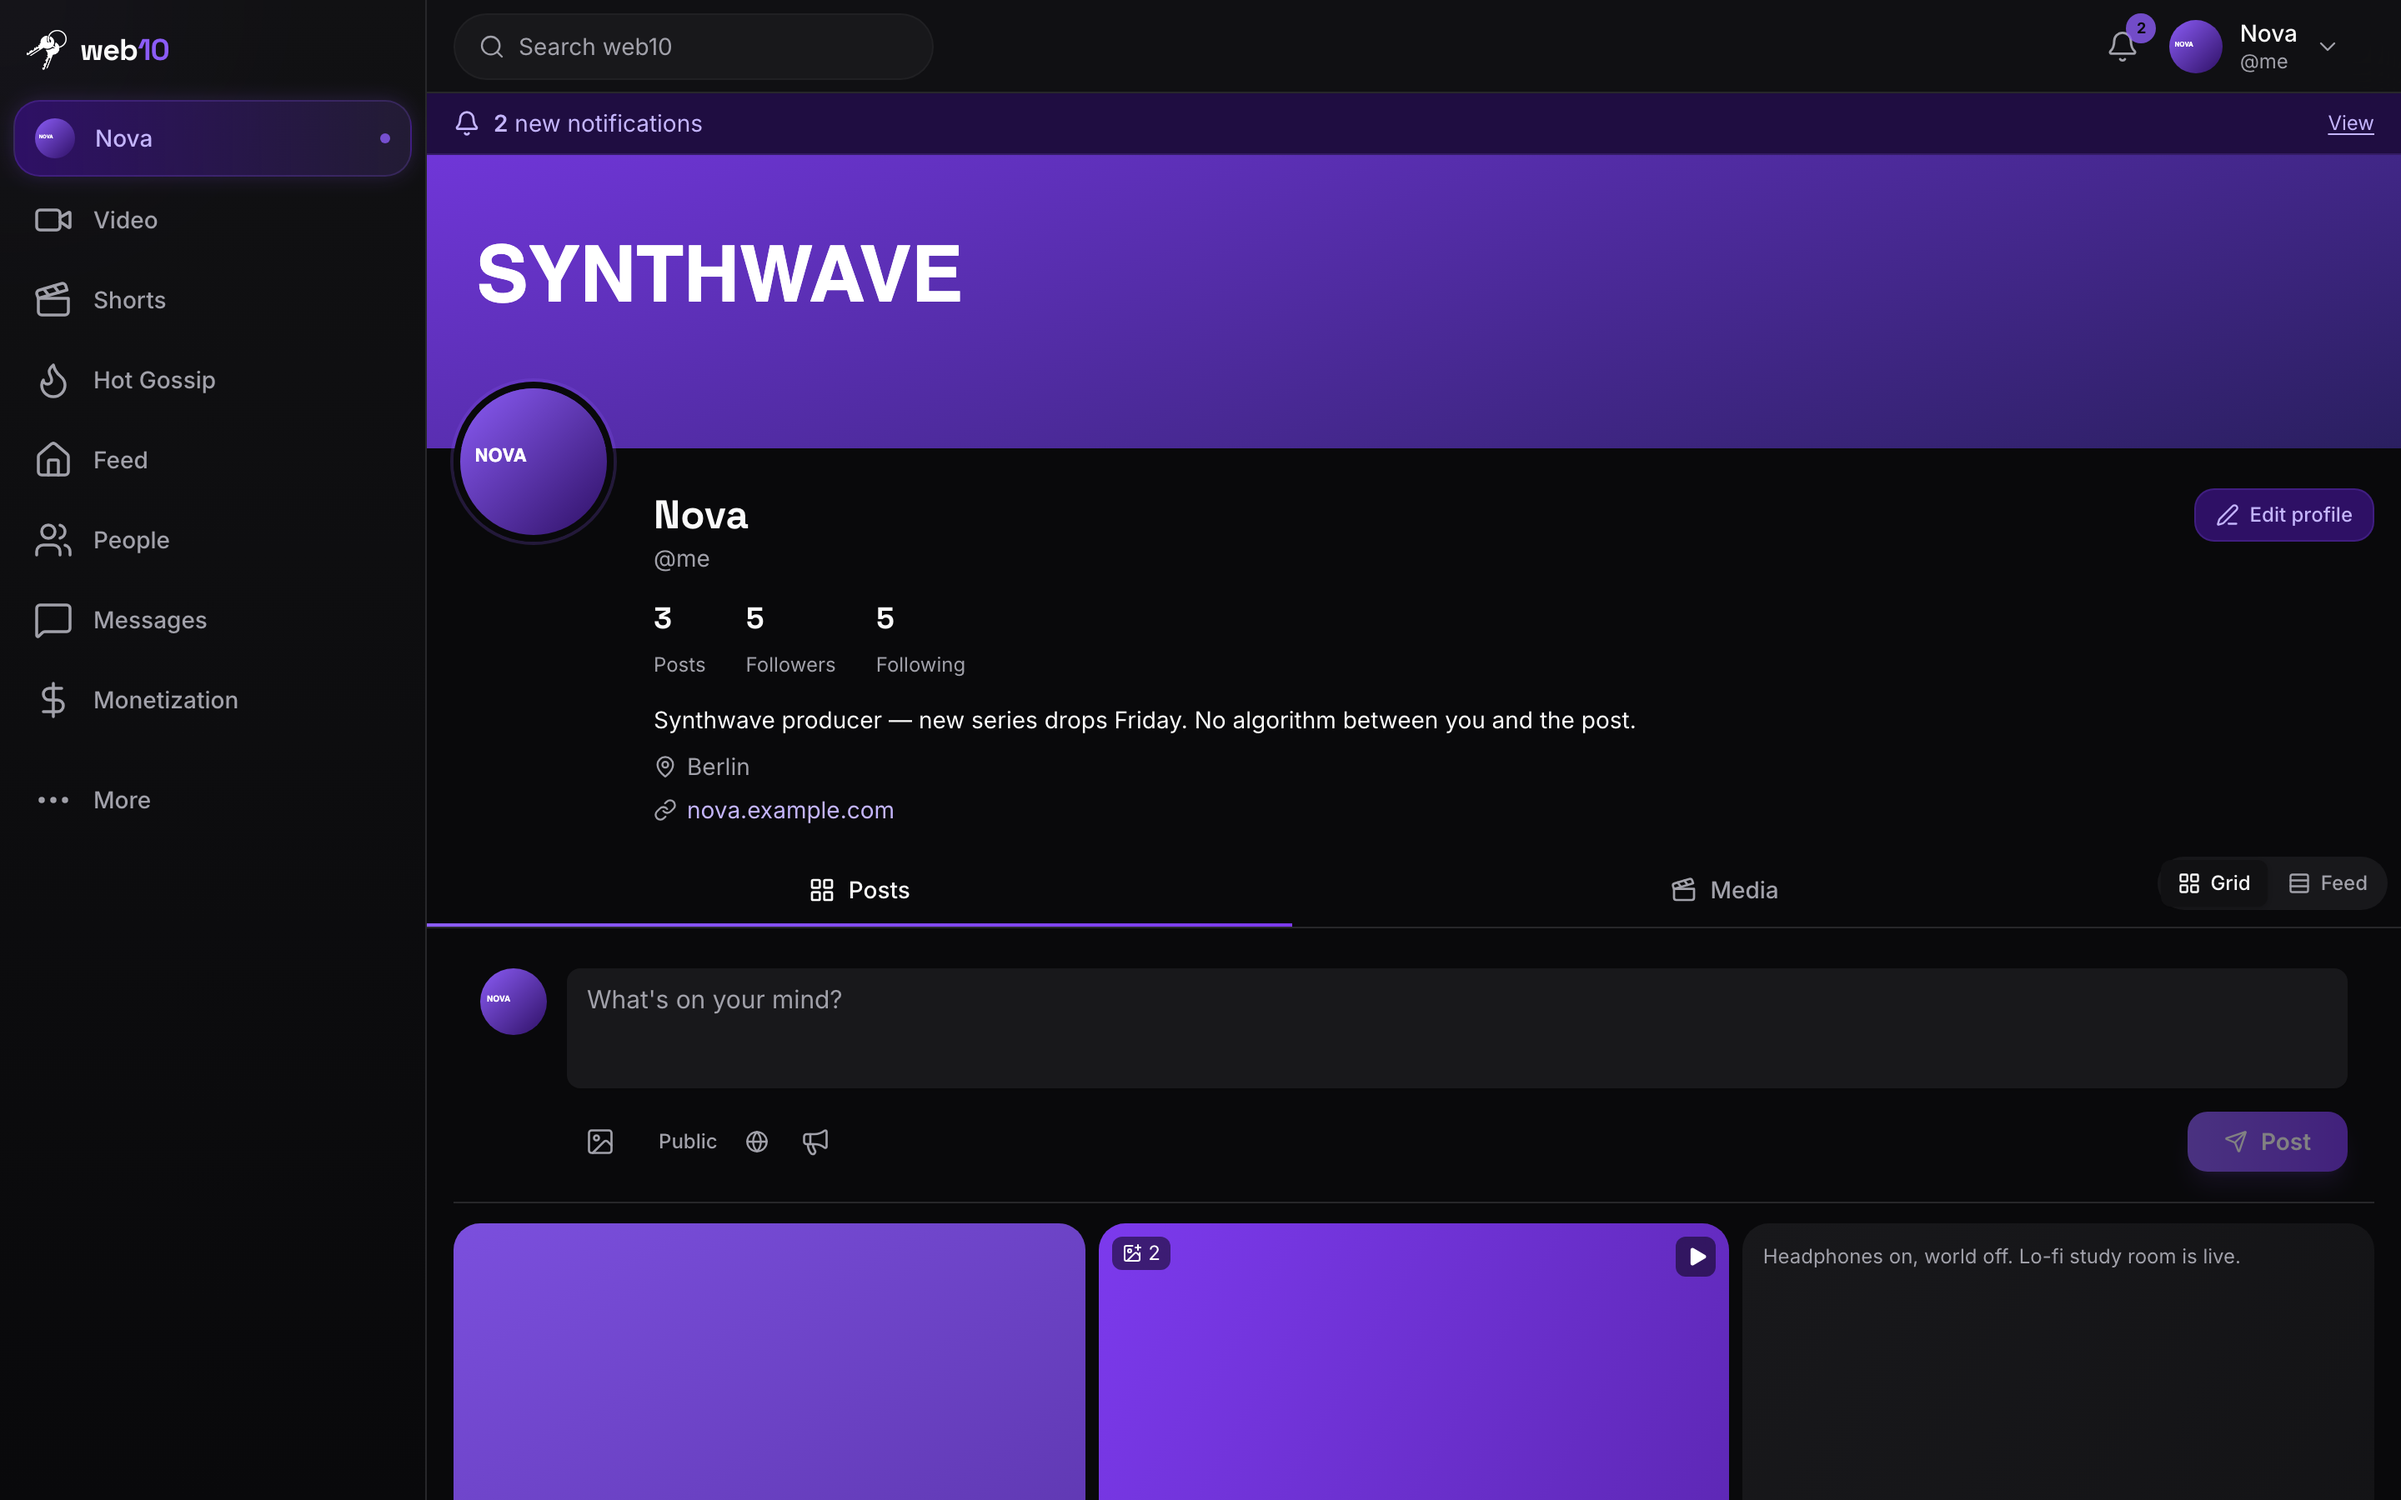
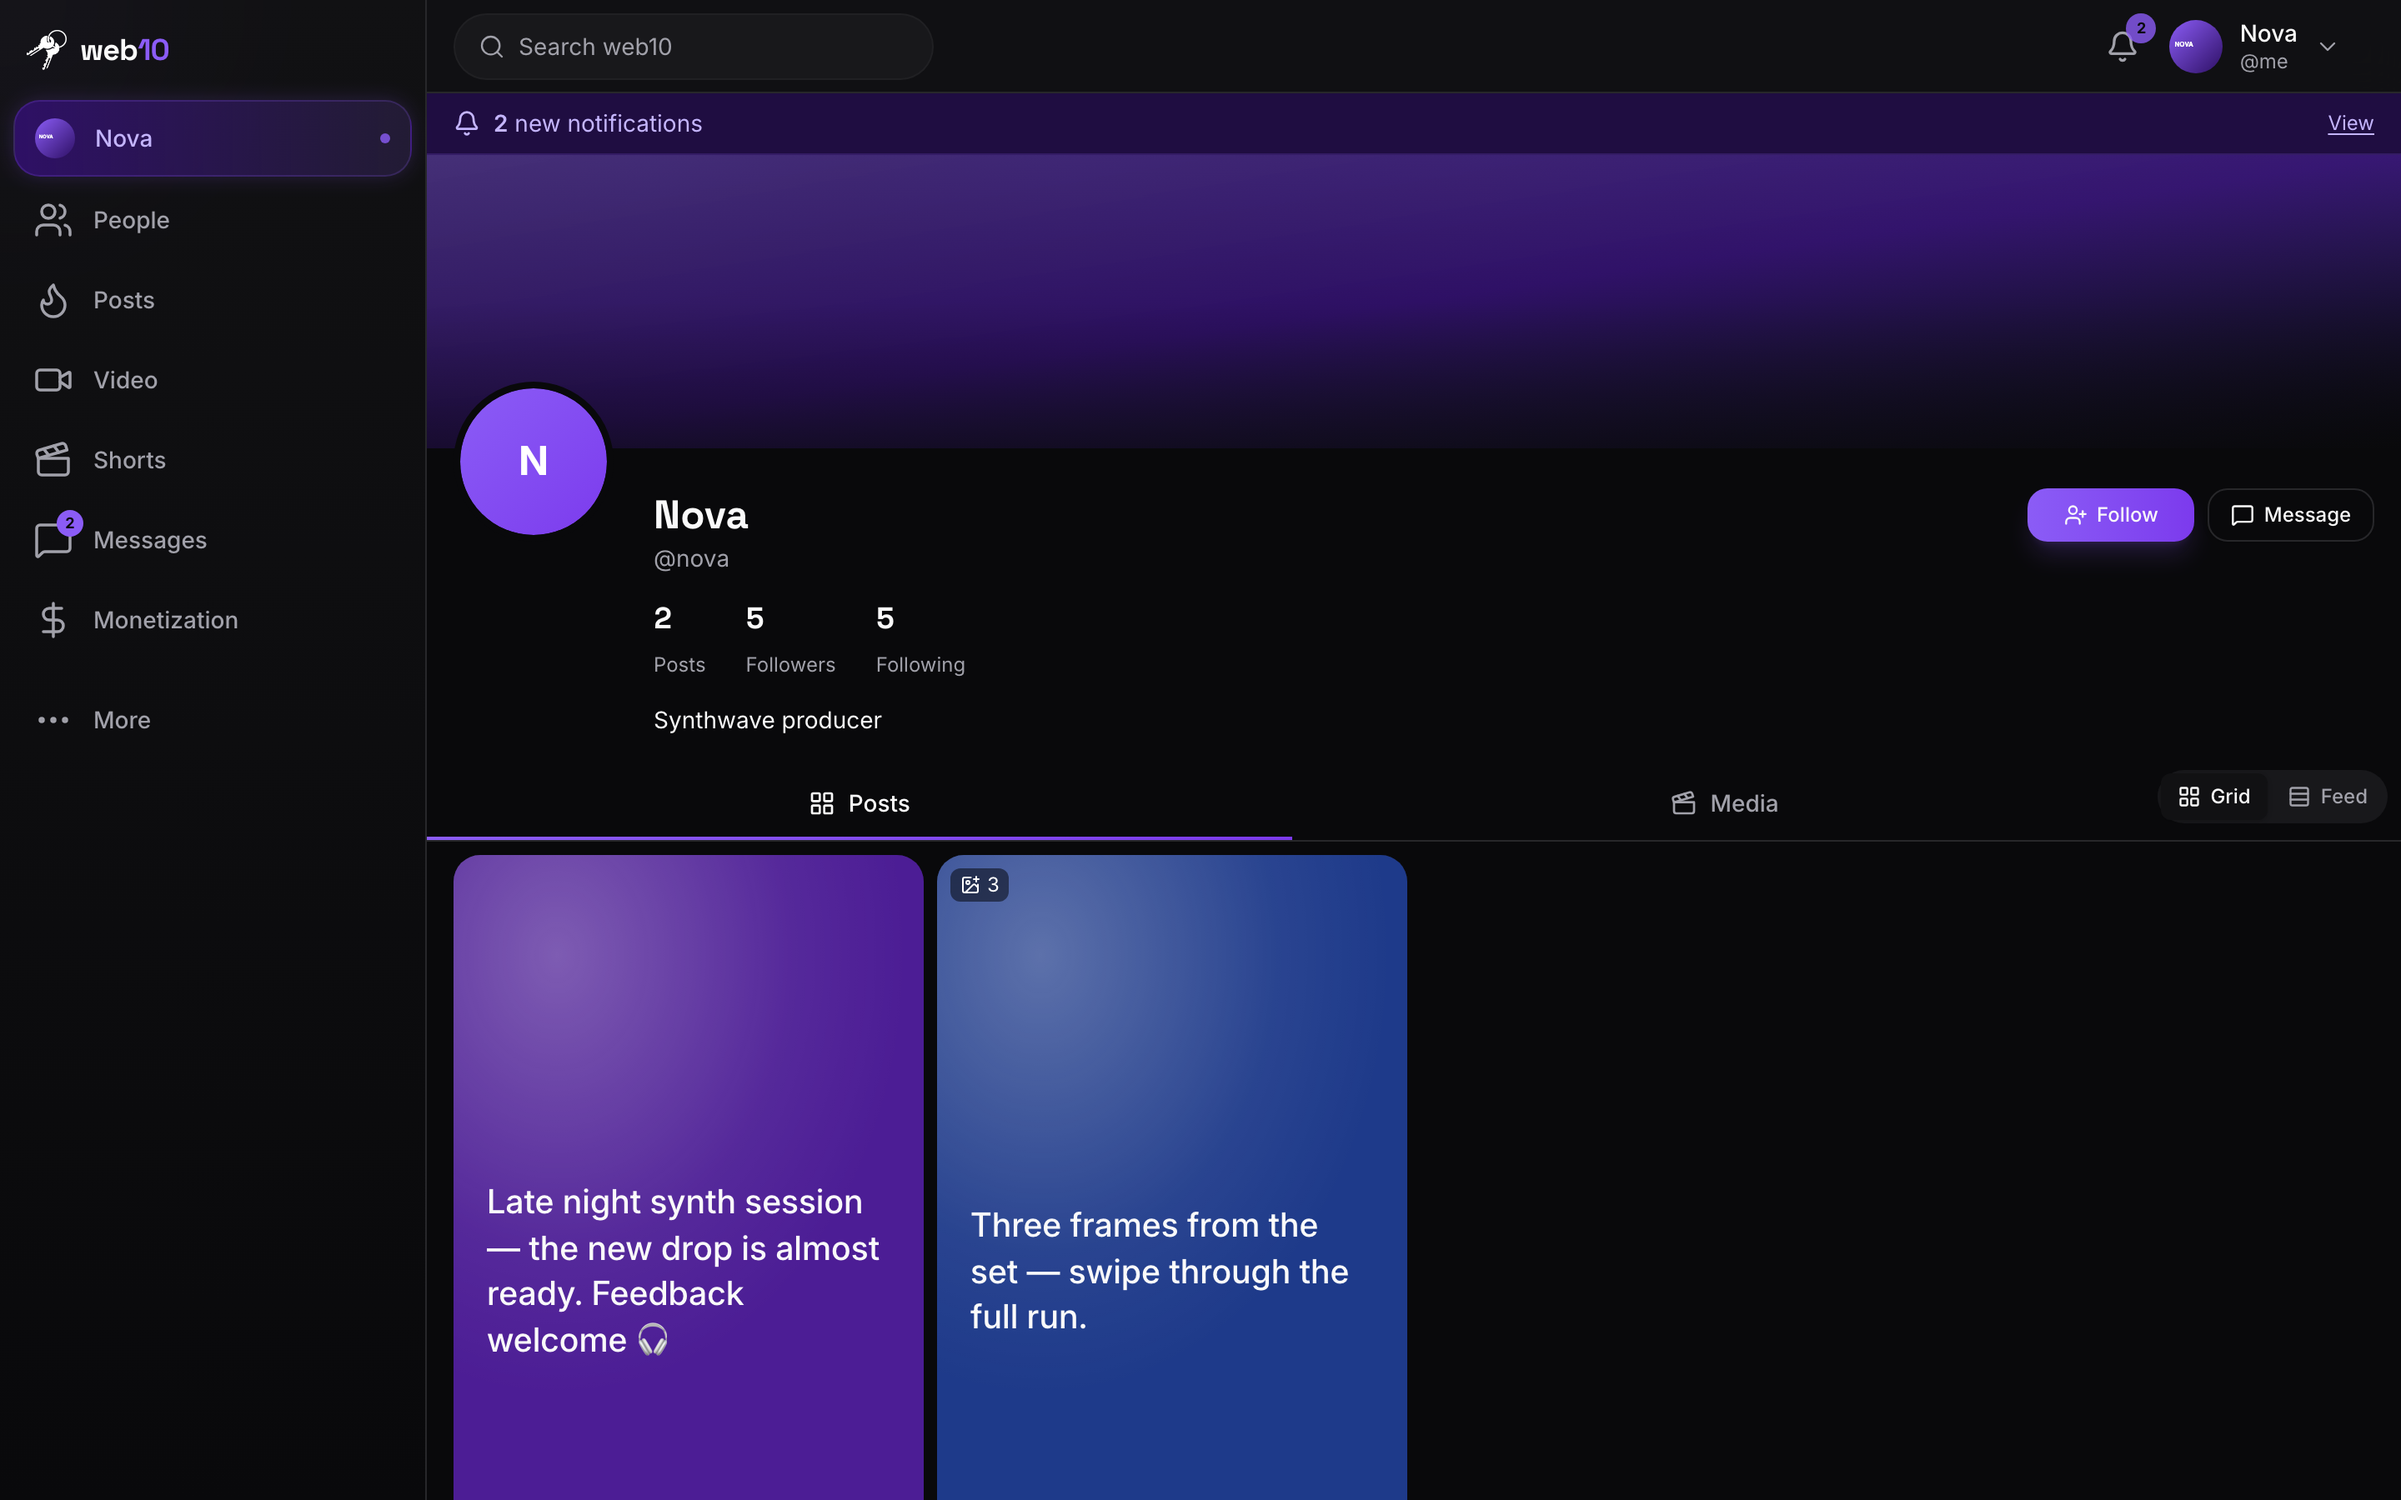
feat(web10-social): profile wall runs 3 tight columns on mobile (the Instagram shape) (3.189.0)
The profile wall's grid was grid-cols-2 on mobile, so at 375px the two 9:16 tiles were tall, sparse, and left a dead third of the screen empty. Now 3 tight columns at every width (gap-0.5 on mobile for the Instagram tight feel), square tiles on mobile (aspect-square sm:aspect-[9/16]) with the 9:16 video wall intact from sm up, responsive text-tile type, and the caption overlay only on media tiles. 1174 web10-social green, tsc clean.

diff --git a/marketing/web10-social/src/components/Bio/UserProfileScreen.tsx b/marketing/web10-social/src/components/Bio/UserProfileScreen.tsx
@@ -143,7 +143,7 @@ function WallTile({ media, testId, title, caption, postId, multiCount, onClick }
           onClick();
         }
       }}
-      className="relative aspect-[9/16] w-full bg-elevated overflow-hidden rounded-lg group cursor-pointer outline-none focus-visible:ring-2 focus-visible:ring-ring focus-visible:ring-inset"
+      className="relative aspect-square sm:aspect-[9/16] w-full bg-elevated overflow-hidden rounded-lg group cursor-pointer outline-none focus-visible:ring-2 focus-visible:ring-ring focus-visible:ring-inset"
     >
       {video ? (
         <video
@@ -168,7 +168,7 @@ function WallTile({ media, testId, title, caption, postId, multiCount, onClick }
         // display face (Space Grotesk) with the caption under it. Vertically
         // centered, not corner-dumped — it reads as a card, not an empty box.
         <div
-          className="relative w-full h-full flex flex-col justify-center p-5"
+          className="relative w-full h-full flex flex-col justify-center p-3 sm:p-5"
           style={{ backgroundColor: textTileColor(postId) }}
           data-testid={`${testId}-text`}
         >
@@ -185,23 +185,21 @@ function WallTile({ media, testId, title, caption, postId, multiCount, onClick }
           <div className="relative">
             {title ? (
               <p
-                className="font-display font-semibold text-foreground leading-tight break-words line-clamp-5"
-                style={{ fontSize: '1.5rem' }}
+                className="font-display font-semibold text-foreground leading-tight break-words line-clamp-5 text-lg sm:text-2xl"
                 data-testid={`${testId}-text-title`}
               >
                 {title}
               </p>
             ) : (
               <p
-                className="font-medium text-foreground leading-snug break-words line-clamp-7"
-                style={{ fontSize: '1.25rem' }}
+                className="font-medium text-foreground leading-snug break-words line-clamp-7 text-base sm:text-xl"
                 data-testid={`${testId}-text-title`}
               >
                 {caption}
               </p>
             )}
             {title && caption && (
-              <p className="mt-2.5 text-sm text-foreground/80 leading-snug break-words line-clamp-4" data-testid={`${testId}-text-caption`}>
+              <p className="mt-1.5 sm:mt-2.5 hidden sm:block text-sm text-foreground/80 leading-snug break-words line-clamp-4" data-testid={`${testId}-text-caption`}>
                 {caption}
               </p>
             )}
@@ -221,8 +219,9 @@ function WallTile({ media, testId, title, caption, postId, multiCount, onClick }
           {multiCount}
         </div>
       )}
-      {/* The caption (the post text, the Instagram/TikTok overlay). */}
-      {caption && (
+      {/* The caption (the post text, the Instagram/TikTok overlay) — media tiles
+          only; a text tile already renders its text as the card face. */}
+      {caption && media.url && (
         <div className="absolute inset-x-0 bottom-0 p-2 bg-gradient-to-t from-black/70 via-black/30 to-transparent pointer-events-none">
           <p className="text-xs text-white line-clamp-2 leading-snug">{caption}</p>
         </div>
@@ -1039,7 +1038,7 @@ export default function UserProfileScreen({ username, provider, onBack }: UserPr
                 onAuthorClick={(u) => navigate(`/u/${u}`)}
               />
             ) : (
-            <div className="grid grid-cols-2 gap-2 sm:grid-cols-3 lg:grid-cols-4">
+            <div className="grid grid-cols-3 gap-0.5 sm:gap-2 lg:grid-cols-4">
               {posts.map((post) => {
                 const firstMedia = post.media_refs?.[0] ? mediaMap[mediaRefId(post.media_refs[0])] : null;
                 // A post with no media renders as a caption-only tile (the
@@ -1079,7 +1078,7 @@ export default function UserProfileScreen({ username, provider, onBack }: UserPr
           )}
           </>
         ) : mediaPosts.length ? (
-          <div className="grid grid-cols-2 gap-2 sm:grid-cols-3 lg:grid-cols-4">
+          <div className="grid grid-cols-3 gap-0.5 sm:gap-2 lg:grid-cols-4">
             {mediaPosts.flatMap((post) =>
               (post.media_refs || []).map((ref) => {
                 const media = mediaMap[mediaRefId(ref)];

diff --git a/marketing/web10-social/screenshots/harness/entry.tsx b/marketing/web10-social/screenshots/harness/entry.tsx
@@ -76,6 +76,10 @@ function UserFollowersRoute() {
 function UserFollowingRoute() {
   return <UserFollowListScreen kind="following" />;
 }
+function UserProfileRoute() {
+  const { username } = useParams();
+  return <UserProfileScreen username={username || 'me'} provider={'web10'} />;
+}
 
 const params = new URLSearchParams(window.location.search);
 const screen = params.get('screen');
@@ -116,10 +120,10 @@ const initialRoute =
    : screen === 'chat-group-thread'
      ? '/messages/group/web10%2Fgroups%2Fusers%2Fnova%2Fchat-the-crew'
    : screen === 'people' ? '/people'
-   : screen === 'profile' ? '/u/me'
-   : screen === 'profile-followers' ? '/u/me/followers'
-   : screen === 'profile-following' ? '/u/me/following'
-   : screen === 'profile-feed' ? '/u/me?view=feed'
+    : screen === 'profile' ? '/u/nova'
+    : screen === 'profile-followers' ? '/u/nova/followers'
+    : screen === 'profile-following' ? '/u/nova/following'
+    : screen === 'profile-feed' ? '/u/nova?view=feed'
     : screen === 'monetize' ? '/monetize'
     : screen === 'monetize-node' ? '/monetize?tab=node'
     : screen === 'node-settings' ? '/node-settings'
@@ -148,7 +152,7 @@ createRoot(document.getElementById('root')!).render(
         <Route path="/groups" element={<GroupsScreen />} />
         <Route path="/groups/:groupId" element={<GroupDetailRoute />} />
         <Route path="/people" element={<DiscoverScreen />} />
-        <Route path="/u/:username" element={<UserProfileScreen username={'me'} provider={'web10'} />} />
+        <Route path="/u/:username" element={<UserProfileRoute />} />
         <Route path="/u/:username/followers" element={<UserFollowersRoute />} />
         <Route path="/u/:username/following" element={<UserFollowingRoute />} />
         <Route path="/monetize" element={<MonetizationScreen />} />

diff --git a/knowledge/changelogs/CHANGELOG.md b/knowledge/changelogs/CHANGELOG.md
@@ -1,3 +1,6 @@
+3.189.0 || 30.09.2026
+feat(web10-social): **the profile wall runs 3 tight columns on mobile (the Instagram shape) — square tiles, tight gaps, responsive text** — operator (30.09.2026, mobile profile screenshot + an Instagram reference): "we look amazing on desktop, but on mobile we have this … but insta looks like this i.e. 3 tight columns for mobile width i think it is sharper". **The root:** the profile wall's grid was `grid-cols-2` on mobile (the 3.176.0 wall cut), so at 375px the two 9:16 tiles were tall, sparse, and left a dead third of the screen empty — the opposite of Instagram's dense 3-up grid. **The fix (all client-side, `UserProfileScreen.tsx`, tokens only):** (1) **the grid** — `grid-cols-2 gap-2 sm:grid-cols-3 lg:grid-cols-4` → `grid-cols-3 gap-0.5 sm:gap-2 lg:grid-cols-4` on both the Posts + Media walls: 3 tight columns at every width (the gap drops to `0.5` on mobile for the Instagram "tight" feel, back to `2` from `sm`). (2) **the tile aspect** — the `WallTile` was a fixed `aspect-[9/16]` (the 9:16 video wall); on a 3-up mobile grid that made each tile ~110px wide × ~195px tall — too tall for a square grid. Now `aspect-square sm:aspect-[9/16]`: square tiles on mobile (the Instagram grid), the 9:16 video wall from `sm` up (desktop unchanged). (3) **the text-tile type scale** — the quote-card text was fixed inline `1.5rem`/`1.25rem` (sized for the tall 9:16 tile); on a ~110px square it overflowed. Now responsive Tailwind steps (`text-lg sm:text-2xl` title, `text-base sm:text-xl` caption-only, `p-3 sm:p-5` padding) and the caption sub-line is `hidden sm:block` (on the small square the title carries the text; the caption reappears from `sm`). (4) **the caption overlay** — the bottom gradient caption overlay (the Instagram/TikTok media-tile treatment) now renders only for media tiles (`caption && media.url`); a text-only tile already renders its text as the card face, so the overlay was double-printing the caption. **Tests:** 1174 web10-social green, `tsc` clean. Screenshots: `profile-{desktop,375}.png` (3 tight square columns on mobile, the 9:16 wall intact on desktop).
+
 3.188.0 || 30.09.2026
 feat(web10-social) + test: **the "New group" create entry returns to the People tab + the New Post FAB stops haunting surfaces where a post makes no sense** — operator (30.09.2026): "dont see create groups button on the people tab, should be there" + (a screenshot of the purple "+" bubble) "this is popping up on all screens, almost inappropriately so … make new post on people tab doesnt make sense, on the monetize tab doesnt make sense". **Two roots, both client-side (D60 — zero node surface):** (1) **the missing create entry** — the Groups browser's "New group" button lived in `DiscoverGroupsTab` (the old Discover subtab) and in the standalone `/groups` screen; when the Discover split (3.171.0) carved the People destination out into `DiscoverExploreTab`, the mashed Groups section kept the filter chips + directory cards but NOT the create entry — so the People tab (where `/groups?tab=discover` now redirects, the groups browser's home) had no way to make a group. The button is back in the Groups section header of `DiscoverExploreTab` (the same brand `Button` + `Plus` idiom as the old tab's, `data-testid="explore-groups-new-button"`), running the same G4 draft flow (`createDraftGroup` → `/groups/{id}?edit=1`). (2) **the FAB overreach** — the floating "+" New Post button (3.184.0) rendered on EVERY signed-in route except Shorts/messages/anon, so it sat on People, Monetization, Settings, Node Settings, Notifications, and other people's profiles where a "New post" bubble reads as noise. It now renders only where posting IS the surface's job: `/feed` (Posts), `/video`, `/shorts` (the wall — a short IS a post), and the viewer's OWN profile (`/u/{me}` — post to your followers). Group pages keep their own "Post to this group" button as the compose entry (no duplicate FAB). **Tests:** `discoverScreen.test.tsx` +1 (the Groups section carries the "New group" entry; a tap creates a draft + navigates to `?edit=1`); `newPostSheet.test.tsx` +2 (FAB hidden on People/Monetization/Settings — each surface waited on its own testid so the assertion is about the settled screen, not first paint; FAB visible on Video + Shorts). 1174 web10-social tests green, `tsc` clean. Screenshots: `people-desktop.png` (no FAB, browser intact), `feed-desktop.png` (FAB present). Lane: `social-v3` in `parallel-execution.md`.
 
